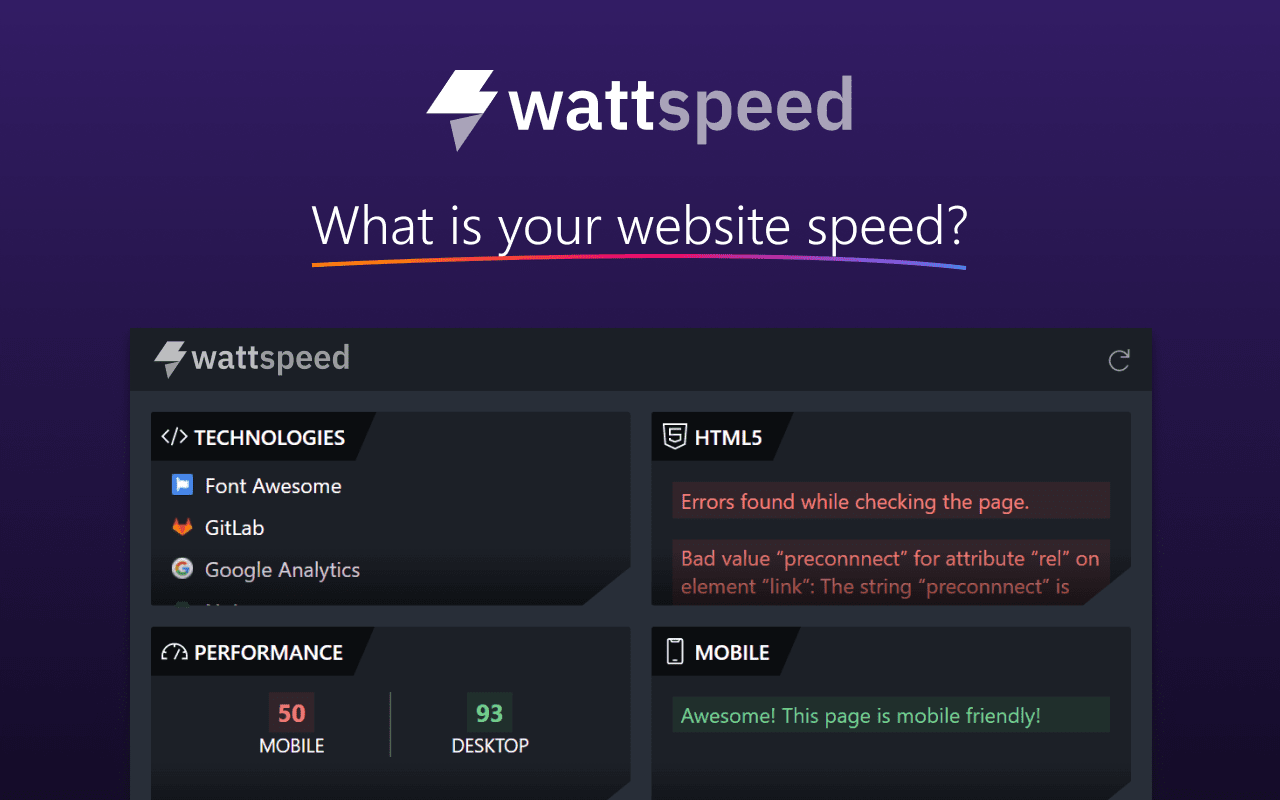
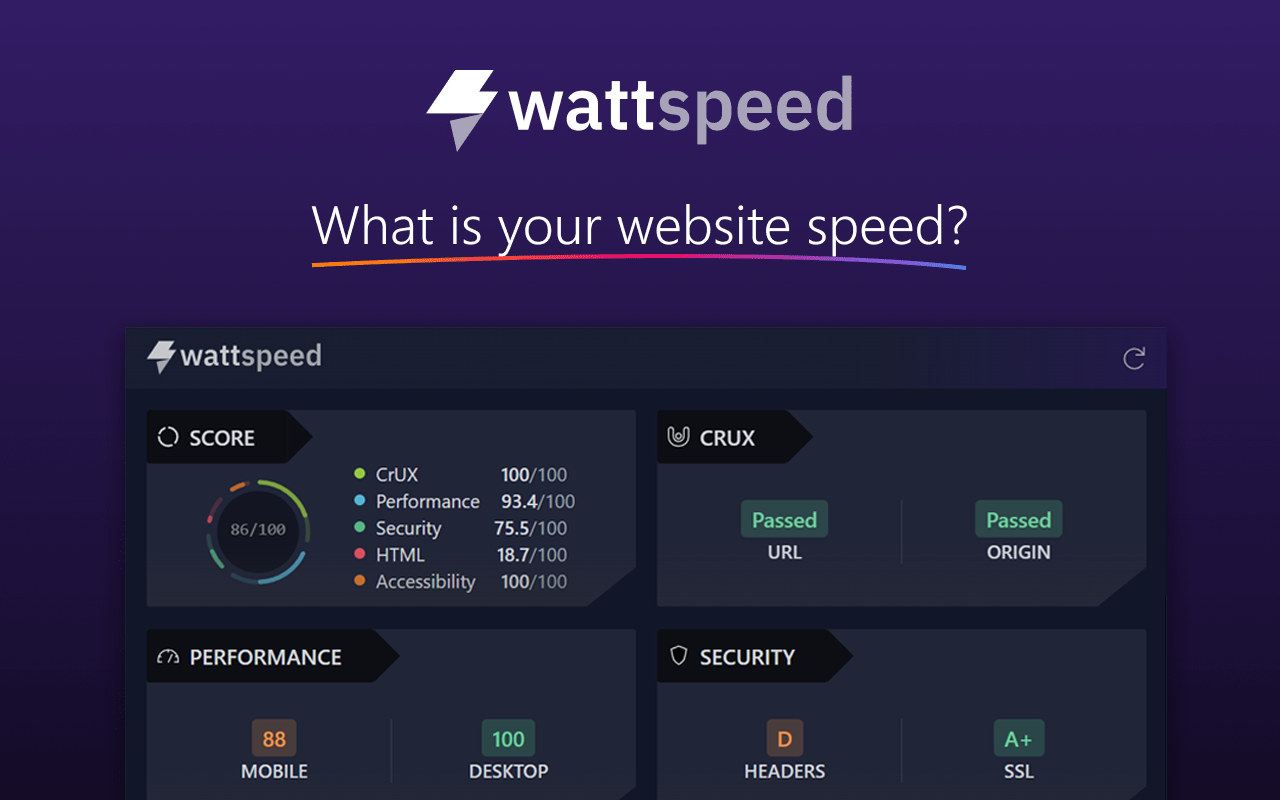
- Updated the README file
- Updated preview image

diff --git a/README.md b/README.md
@@ -1,26 +1,20 @@
 ## Wattspeed &bull; [https://wattspeed.com/](https://wattspeed.com/)
 
-Wattspeed is a FREE Chrome extension by [Advanced Web Ranking](https://www.advancedwebranking.com/) that offers powerful web technologies insights each time you open a new web page.
+Wattspeed is a FREE Chrome/Edge extension by [Advanced Web Ranking](https://www.advancedwebranking.com/) that offers powerful web performance insights and CrUX data each time you open a new web page.
 
 [![Wattspeed](/docs/preview.png)](https://www.wattspeed.com/)
 
-- Mobile-friendly test
+- A score based on extension-verified metrics
+- CrUX URL/Origin data
 - Google Lighthouse scores
+- Mobile-friendly test
+- Security checks based on headers and SSL
 - HTML5 validation
 - Accessibility checker
-- Mixed content & JSON-LD structured data snippet detection
-
-and more...
-
-- What web server is behind the URL?
-- What Analytics tool is used to get visitor insights?
-- What Marketing or Chat tools are used to convert the visitors?
-- What Advertising network is running in order to sell ads?
-- What CMS powers the forum, blog or the online shop?
-- What CSS and JS frameworks are used to build that user interface?
 
 ## Install the browser extension
 - [Chrome extension](https://chrome.google.com/webstore/detail/mbkehkfjhncahcaggkncdaacfnikmoid/)
+- [Edge add-on](https://microsoftedge.microsoft.com/addons/detail/wattspeed/gfkdjnndhppobppfkojgenkjeabkcaac)
 
 ## How to run it
 - Install dependencies: `npm install`
